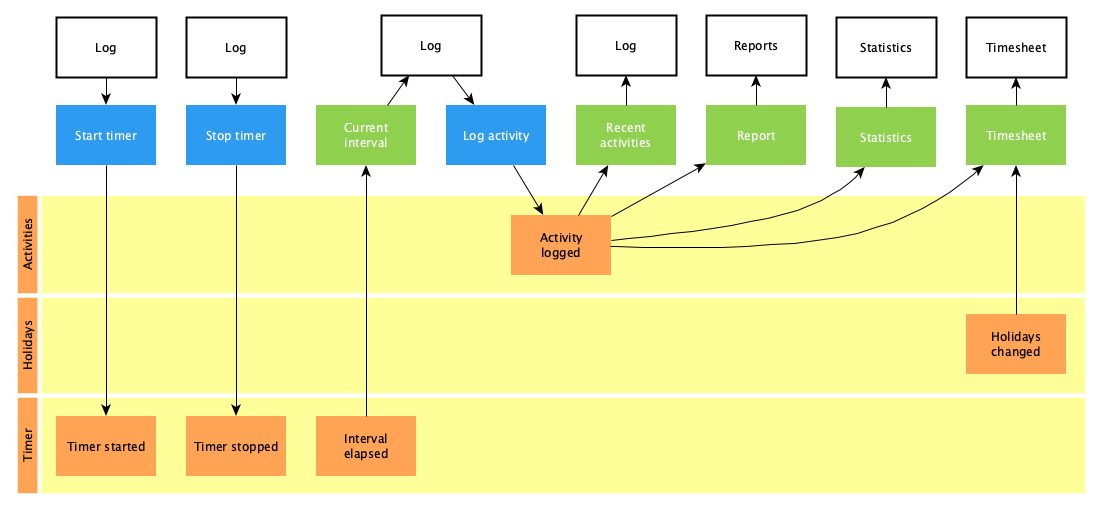
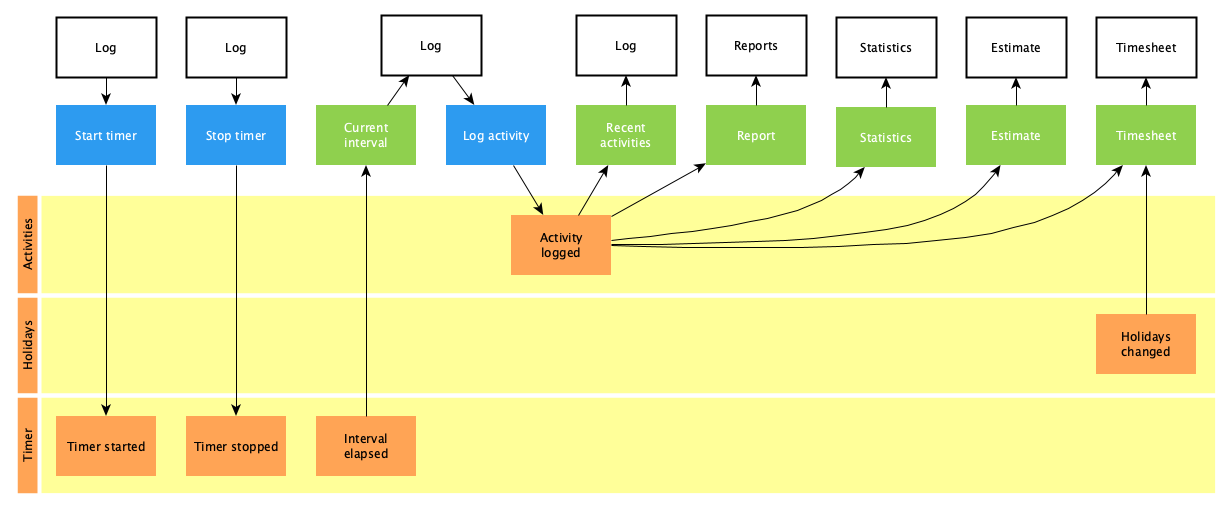
docs: update stories

diff --git a/doc/README.md b/doc/README.md
@@ -24,6 +24,7 @@ analysis.
 
 - [x] Log the activity with a client, a project, a task and optional notes
 - [ ] Log optional category like feature, rework, meeting, training, etc.
+- [ ] Log activity with first and last name of team member
 
 ### Recent Activities
 
@@ -35,21 +36,22 @@ analysis.
 - [x] Summarize hours worked for clients
 - [x] Summarize hours worked on projects
 - [x] Summarize hours worked on tasks
+- [ ] Summarize hours worked for team members
 - [x] Summarize the total hours worked
 - [x] Summarize in a period
-- [ ] Determine lead time for clients
-- [ ] Determine lead time for projects
-- [ ] Determine lead time for tasks
 - [ ] Determine throughput in a period
 
 ### Statistics
 
 - [x] Create histogram for hours worked on tasks
-- [x] Create histogram for lead times
+- [x] Create histogram for cycle times
+- [ ] Create histogram for lead times
 - [ ] Create histogram for throughput
 - [x] Determine median for hours worked on tasks
-- [x] Determine median for lead times
+- [x] Determine median for cycle times
+- [ ] Determine median for lead times
 - [ ] Determine median for throughput
+- [ ] Exclude tasks not suitable for statistics
 
 ### Timesheet
 
@@ -59,6 +61,12 @@ analysis.
 - [x] Compare with capacity
 - [x] Take holidays into account
 - [x] Take vacation into account
+
+### Estimate
+
+- [ ] Estimate remaining tasks with hours worked
+- [ ] Estimate remaining tasks with cycle times
+- [ ] Estimate remaining tasks with lead times
 
 ## Architecture
 
